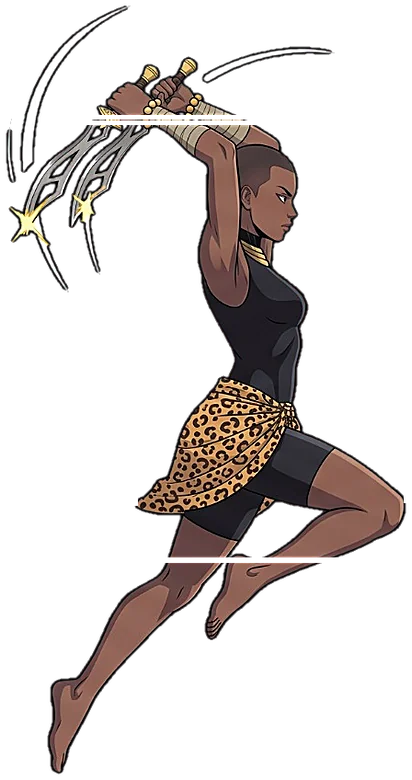
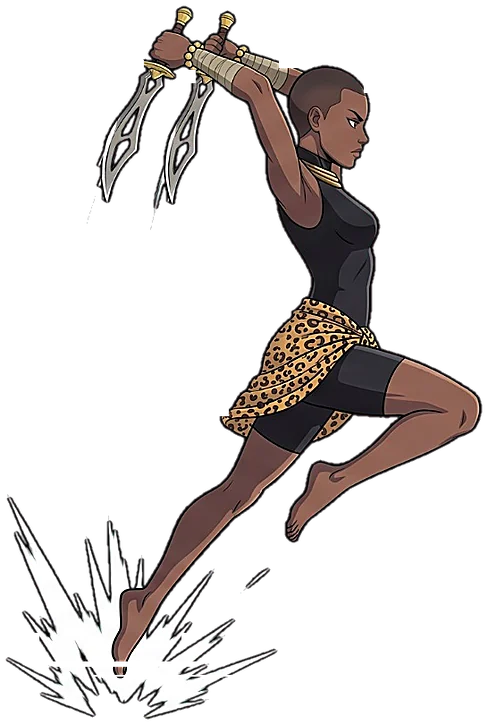
Dufie: new ultimate (anticipation, jump wind-up, four smeared slashes and kicks, finisher, flip home) and model-sheet portrait
Claude-Session: https://claude.ai/code/session_01KCvu1msLSb5oPSxPwoexAA

diff --git a/squads/game.js b/squads/game.js
@@ -1,9 +1,9 @@
 // Gyeaman Squads: Akan squad battler, chapter 1.
 // Battles are turn based on a speed turn order (Dislyte style): every hero picks Basic, Skill (cooldown) or Ultimate (energy)
 // and a target; enemies show their next move. Big moves get impact frames, small ones stay quiet.
-import { KF } from './kf.js?v=20261021b';
-import { HEROES, MONS, STAGES, REGIONS, DIFF, RARITY, STARTERS, SKILL_MAX, skillCost, xpNeed, STAR_SHARDS, LOCKED_CHAPTERS, PULL_COST, PULL10_COST, PITY, PULL_RATES, CLASSES, GROWTH, SPELLS } from './data.js?v=20261021b';
-import { drawAdinkra, adinkraPath, adinkraSvg, ADINKRA } from './adinkra.js?v=20261021b';
+import { KF } from './kf.js?v=20261021c';
+import { HEROES, MONS, STAGES, REGIONS, DIFF, RARITY, STARTERS, SKILL_MAX, skillCost, xpNeed, STAR_SHARDS, LOCKED_CHAPTERS, PULL_COST, PULL10_COST, PITY, PULL_RATES, CLASSES, GROWTH, SPELLS } from './data.js?v=20261021c';
+import { drawAdinkra, adinkraPath, adinkraSvg, ADINKRA } from './adinkra.js?v=20261021c';
 
 const ROOT = /\/squads\/?$|\/squads\/index\.html$/.test(location.pathname) ? '../assets/' : 'assets/';
 const A = ROOT + 'sq/';
@@ -62,7 +62,7 @@ const SFX = {
 
 // ---------------- images ----------------
 const IM = {};
-const AV = '?v=20261021b'; // bump when art files are replaced under the same name (defeats stale browser/CDN caches)
+const AV = '?v=20261021c'; // bump when art files are replaced under the same name (defeats stale browser/CDN caches)
 function img(src) {
   if (!IM[src]) { const e = { el: new Image(), ok: false, sc: {}, sil: {} }; e.el.decoding = 'async'; e.el.onload = () => { e.ok = true; }; e.el.src = src; IM[src] = e; }
   return IM[src];
@@ -90,8 +90,9 @@ const SEQ = {
     dufie2: [{ p: 'vanish_0', ms: 150, x: 0 }, { p: 'vanish_1', ms: 220, x: 0, ev: 'smoke' }, { p: 'vanish_2', ms: 300, x: 0, ev: 'fade' }, { p: 'vanish_3', ms: 260, x: 0, ev: 'reform' }],
     dufKick: [{ p: 'kick_0', ms: 120, x: .5, y: .05, ghost: 1 }, { p: 'kick_1', ms: 190, x: 1, y: .22, lines: 1, ev: 'kick1' }, { p: 'kick_2', ms: 200, x: 1, y: .3, ev: 'kick2' }, { p: 'kick_3', ms: 170, x: 1, y: 0, ev: 'land' }],
     dufStars: [{ p: 'throw_0', ms: 160, x: 0 }, { p: 'throw_1', ms: 230, x: 0, ev: 'throw3' }, { p: 'throw_2', ms: 230, x: 0, ev: 'throw2' }, { p: 'throw_3', ms: 220, x: 0 }],
-    ult: [{ p: 'ultA_0', ms: 160, x: 0 }, { p: 'ultA_1', ms: 260, x: .45, y: .6, ghost: 1 }, { p: 'ultA_2', ms: 150, x: .95, y: .2, lines: 1, ghost: 1 }, { p: 'ultA_3', ms: 140, x: 1, y: 0, ev: 'xslash' },
-      { p: 'ultB_0', ms: 520, x: 1, y: .25, ev: 'flurry' }, { p: 'ultB_1', ms: 300, x: 1, y: 0, ev: 'finish' }, { p: 'ultB_2', ms: 160, x: .45, y: .45, ghost: 1 }, { p: 'ultB_3', ms: 200, x: 0, y: 0, ev: 'land' }],
+    ult: [{ p: 'ultC_0', ms: 120, x: 0 }, { p: 'ultC_1', ms: 340, x: -.05, ev: 'charge' }, { p: 'ultC_2', ms: 200, x: .55, y: .45, lines: 1, ghost: 1, ev: 'leap' }, { p: 'ultC_3', ms: 260, x: .95, y: .28, lines: 1, ghost: 1, ev: 's1' },
+      { p: 'ultD_0', ms: 240, x: 1, y: .22, ghost: 1, ev: 's2' }, { p: 'ultD_1', ms: 230, x: 1, y: 0, ghost: 1, ev: 's3' }, { p: 'ultD_2', ms: 380, x: 1.08, y: 0, lines: 1, ev: 's4' }, { p: 'ultD_3', ms: 160, x: 1.08, y: 0 },
+      { p: 'recover_1', ms: 130, x: .6, y: .36, ghost: 1 }, { p: 'recover_2', ms: 130, x: .25, y: .42, ghost: 1 }, { p: 'recover_3', ms: 180, x: 0, y: 0, ev: 'land' }],
   },
 };
 const reachTo = (u, f) => Math.max(0, Math.abs(pos(f)[0] - pos(u)[0]) - f.w * .42 - u.w * .3);
@@ -133,12 +134,15 @@ CHOREO.dufie = {
         await wait(140); for (let k = 0; k < n && f.alive; k++) hit(u, f, S.mult * m, { color: '#e6edf5' }); };
     await runKF(u, null, SEQ.dufie.dufStars, async (ev) => { if (ev === 'throw3') toss(3); if (ev === 'throw2') toss(2); });
     await wait(200); kfEnd(u); if (f.alive) { addSt(f, 'defDown', 2); float(f, 'DEF▼', '#ff5a4a', .8); } },
-  ult: async (u, f, m, T) => { await runKF(u, f, SEQ.dufie.ult, async (ev) => { const [x, y] = pos(f);
-      const cut = (k) => { fx('arc', 240, { x: x + rnd(-8, 8), y: y - f.h * (.35 + .3 * Math.random()), r: f.h * rnd(.45, .7), c: k % 2 ? '#ffffff' : VIO, dir: k % 2 ? -1 : 1, tilt: rnd(-.7, .7) }); hit(u, f, .45 * m, { color: VIO }); };
-      if (ev === 'xslash') { await impactFrames(T, u); fx('arc', 300, { x, y: y - f.h * .5, r: f.h * .7, c: '#fff', dir: 1, tilt: .8 }); fx('arc', 300, { x, y: y - f.h * .5, r: f.h * .7, c: VIO, dir: -1, tilt: -.8 }); hit(u, f, .9 * m, { color: VIO, big: 1 }); hitStop(90); }
-      if (ev === 'flurry') { for (let k = 0; k < 5 && f.alive; k++) { cut(k); await wait(90); } }
-      if (ev === 'finish' && f.alive) { fx('star', 600, { x, y: y - f.h * .5, r: f.h, c: VIO }); fx('smoke', 900, { x, y, r: f.h * .5, c: VIO, n: 12 }); hit(u, f, .7 * m, { color: VIO, big: 1 }); hitStop(120); B.shake = 14; }
-      if (ev === 'land') { const [hx, hy] = pos(u); burst(hx, hy, ['#d8c9b0', '#fff'], 10, 3); } });
+  ult: async (u, f, m, T) => { await runKF(u, f, SEQ.dufie.ult, async (ev) => { const [x, y] = pos(f), [hx, hy] = pos(u);
+      const strike = (part, o) => { fx('arc', 300, { x: x + rnd(-6, 6), y: y - f.h * (o.yy || .5), r: f.h * (o.r || .6), c: o.c || VIO, dir: o.dir || 1, tilt: o.tilt || 0 }); hit(u, f, part * m, { color: VIO, big: o.big }); hitStop(o.stop || 70); };
+      if (ev === 'charge') { fx('star', 340, { x: hx, y: hy - u.h * .5, r: u.h * .6, c: VIO }); B.shake = 4; }
+      if (ev === 'leap') burst(hx, hy, ['#fff', '#d8c9b0'], 12, 4);
+      if (ev === 's1') { await impactFrames(T, u); strike(.55, { tilt: .7, c: '#fff', big: 1, stop: 110 }); }
+      if (ev === 's2' && f.alive) strike(.45, { yy: .62, tilt: -.3, c: VIO });
+      if (ev === 's3' && f.alive) strike(.45, { dir: -1, tilt: -.6, c: '#fff' });
+      if (ev === 's4' && f.alive) { strike(.4, { r: .7, c: VIO }); strike(.4, { r: .55, c: '#fff', big: 1, stop: 140 }); fx('star', 600, { x, y: y - f.h * .5, r: f.h, c: VIO }); fx('smoke', 900, { x, y, r: f.h * .5, c: VIO, n: 12 }); B.shake = 14; }
+      if (ev === 'land') burst(hx, hy, ['#d8c9b0', '#fff'], 10, 3); });
     kfEnd(u); },
 };
 // draw one clip frame with feet at (0,0) and body height bodyH
@@ -748,7 +752,7 @@ async function ultIntro(u, sym, color) {
 // fullscreen ultimate cutscene: dedicated art (or a Veo clip once generated), push-in, speed lines, X-slash, title
 const CUTS = {}; // optional per-hero splash art; keyframe heroes use their signature pose
 function cutscene(u, sym, color) {
-  const C = CUTS[u.id] || (KF[u.id] && KF[u.id].p.ultA_1 ? { img: A + 'kf/' + KF[u.id].p.ultA_1[0] + AV, pose: 1, short: 1 } : { img: poseSrc(u.id, 2), pose: 1 });
+  const C = CUTS[u.id] || (KF[u.id] && KF[u.id].p.ultC_2 ? { img: A + 'kf/' + KF[u.id].p.ultC_2[0] + AV, pose: 1, short: 1 } : { img: poseSrc(u.id, 2), pose: 1 });
   const media = C.video ? `<video poster="${C.img}" muted playsinline autoplay preload="auto"><source src="${C.video.replace('.mp4', '.webm')}" type="video/webm"><source src="${C.video}" type="video/mp4"></video>` : `<img src="${C.img}" alt="" class="${C.pose ? 'pose' : ''} ${C.pose && u.flip[2] ? 'flip' : ''}">`;
   const el = h(`<div class="ultcs" style="--rc:${color}"><div class="cs-bg"></div><div class="cs-art">${media}</div><div class="cs-lines"></div>
     <div class="cs-sym">${adinkraSvg(sym)}</div><i class="cs-x a"></i><i class="cs-x b"></i><div class="cs-flash"></div>

diff --git a/squads/kf.js b/squads/kf.js
@@ -1,4 +1,4 @@
 // generated by split4.py: keyframe poses cut from Firefly pose sheets. [file, w, h, anchor x, floor y] in px
 export const KF = {
-  dufie: { ref: 625, p: {"basic_0":["dufie_basic_0.webp",544,631,271,625],"basic_1":["dufie_basic_1.webp",594,572,296,553],"basic_2":["dufie_basic_2.webp",423,690,213,653],"basic_3":["dufie_basic_3.webp",490,391,245,363],"idle_0":["dufie_idle_0.webp",556,630,277,625],"idle_1":["dufie_idle_1.webp",461,660,230,649],"idle_2":["dufie_idle_2.webp",355,496,176,481],"idle_3":["dufie_idle_3.webp",447,488,223,467],"step_0":["dufie_step_0.webp",395,710,196,705],"step_1":["dufie_step_1.webp",545,501,272,615],"step_2":["dufie_step_2.webp",630,540,314,540],"step_3":["dufie_step_3.webp",424,693,213,703],"kick_0":["dufie_kick_0.webp",499,632,248,626],"kick_1":["dufie_kick_1.webp",579,426,290,602],"kick_2":["dufie_kick_2.webp",372,740,186,732],"kick_3":["dufie_kick_3.webp",438,413,218,377],"throw_0":["dufie_throw_0.webp",552,630,275,625],"throw_1":["dufie_throw_1.webp",341,648,170,643],"throw_2":["dufie_throw_2.webp",543,642,270,637],"throw_3":["dufie_throw_3.webp",508,584,253,568],"vanish_0":["dufie_vanish_0.webp",529,631,264,625],"vanish_1":["dufie_vanish_1.webp",467,707,233,677],"vanish_2":["dufie_vanish_2.webp",316,551,157,632],"vanish_3":["dufie_vanish_3.webp",503,618,249,610],"recover_0":["dufie_recover_0.webp",395,729,196,716],"recover_1":["dufie_recover_1.webp",463,680,231,716],"recover_2":["dufie_recover_2.webp",399,503,199,684],"recover_3":["dufie_recover_3.webp",552,631,275,625],"ultA_0":["dufie_ultA_0.webp",559,631,279,626],"ultA_1":["dufie_ultA_1.webp",412,780,206,821],"ultA_2":["dufie_ultA_2.webp",614,484,307,692],"ultA_3":["dufie_ultA_3.webp",622,606,310,600],"ultB_0":["dufie_ultB_0.webp",579,675,290,668],"ultB_1":["dufie_ultB_1.webp",499,461,247,452],"ultB_2":["dufie_ultB_2.webp",544,549,271,674],"ultB_3":["dufie_ultB_3.webp",562,631,280,625]} },
+  dufie: { ref: 625, p: {"basic_0":["dufie_basic_0.webp",544,631,271,625],"basic_1":["dufie_basic_1.webp",594,572,296,553],"basic_2":["dufie_basic_2.webp",423,690,213,653],"basic_3":["dufie_basic_3.webp",490,391,245,363],"idle_0":["dufie_idle_0.webp",556,630,277,625],"idle_1":["dufie_idle_1.webp",461,660,230,649],"idle_2":["dufie_idle_2.webp",355,496,176,481],"idle_3":["dufie_idle_3.webp",447,488,223,467],"step_0":["dufie_step_0.webp",395,710,196,705],"step_1":["dufie_step_1.webp",545,501,272,615],"step_2":["dufie_step_2.webp",630,540,314,540],"step_3":["dufie_step_3.webp",424,693,213,703],"kick_0":["dufie_kick_0.webp",499,632,248,626],"kick_1":["dufie_kick_1.webp",579,426,290,602],"kick_2":["dufie_kick_2.webp",372,740,186,732],"kick_3":["dufie_kick_3.webp",438,413,218,377],"throw_0":["dufie_throw_0.webp",552,630,275,625],"throw_1":["dufie_throw_1.webp",341,648,170,643],"throw_2":["dufie_throw_2.webp",543,642,270,637],"throw_3":["dufie_throw_3.webp",508,584,253,568],"vanish_0":["dufie_vanish_0.webp",529,631,264,625],"vanish_1":["dufie_vanish_1.webp",467,707,233,677],"vanish_2":["dufie_vanish_2.webp",316,551,157,632],"vanish_3":["dufie_vanish_3.webp",503,618,249,610],"recover_0":["dufie_recover_0.webp",395,729,196,716],"recover_1":["dufie_recover_1.webp",463,680,231,716],"recover_2":["dufie_recover_2.webp",399,503,199,684],"recover_3":["dufie_recover_3.webp",552,631,275,625],"ultC_0":["dufie_ultC_0.webp",554,632,276,626],"ultC_1":["dufie_ultC_1.webp",449,480,225,473],"ultC_2":["dufie_ultC_2.webp",488,725,245,716],"ultC_3":["dufie_ultC_3.webp",590,639,295,633],"ultD_0":["dufie_ultD_0.webp",675,485,337,680],"ultD_1":["dufie_ultD_1.webp",528,663,264,652],"ultD_2":["dufie_ultD_2.webp",577,581,287,571],"ultD_3":["dufie_ultD_3.webp",545,631,271,626]} },
 };

diff --git a/squads/index.html b/squads/index.html
@@ -14,10 +14,10 @@
 <link rel="preconnect" href="https://fonts.googleapis.com">
 <link rel="preconnect" href="https://fonts.gstatic.com" crossorigin>
 <link href="https://fonts.googleapis.com/css2?family=Anton&family=Bangers&family=Karla:wght@400;700;800&display=swap" rel="stylesheet">
-<link rel="stylesheet" href="style.css?v=20261021b">
+<link rel="stylesheet" href="style.css?v=20261021c">
 </head>
 <body>
 <div id="app"></div>
-<script type="module" src="game.js?v=20261021b"></script>
+<script type="module" src="game.js?v=20261021c"></script>
 </body>
 </html>
